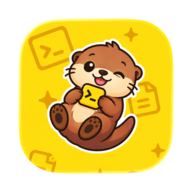
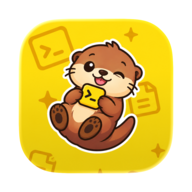
Apply the glass gradient multiply to the background group
Icon Composer ignores blend modes on layers, so the previous change
rendered image backgrounds exactly as flat as before. The multiply now
sits on the background group, where Icon Composer applies it: the tile
comes out about 10% darker at the bottom, like its gradient for a solid
color. The native rendering test now checks that the bottom of the tile
is darker than the top.

Changed region(s): [[0.1562, 0.7812, 0.8438, 0.9062]]

diff --git a/background_test.go b/background_test.go
@@ -179,9 +179,9 @@ func TestGlassDocumentPutsImageBackgroundUnderArtwork(t *testing.T) {
 	var document struct {
 		Fill   any `json:"fill"`
 		Groups []struct {
+			Blend  string `json:"blend-mode"`
 			Layers []struct {
 				Image string `json:"image-name"`
-				Blend string `json:"blend-mode"`
 				Glass bool   `json:"glass"`
 			} `json:"layers"`
 		} `json:"groups"`
@@ -193,7 +193,7 @@ func TestGlassDocumentPutsImageBackgroundUnderArtwork(t *testing.T) {
 	// Composer renders the glass gradient itself.
 	fill, _ := document.Fill.(map[string]any)
 	if fill["automatic-gradient"] != "srgb:1.00000,1.00000,1.00000,1.00000" || len(document.Groups) != 2 || document.Groups[0].Layers[0].Image != "foreground.png" ||
-		len(document.Groups[1].Layers) != 1 || document.Groups[1].Layers[0].Image != "background.png" || document.Groups[1].Layers[0].Blend != "multiply" || document.Groups[1].Layers[0].Glass {
+		len(document.Groups[1].Layers) != 1 || document.Groups[1].Layers[0].Image != "background.png" || document.Groups[1].Blend != "multiply" || document.Groups[1].Layers[0].Glass {
 		t.Fatalf("wrong glass document: %s", data)
 	}
 	if _, err := os.Stat(filepath.Join(doc, "Assets", "shading.png")); !os.IsNotExist(err) {
@@ -216,11 +216,16 @@ func TestAppleGlassRendersImageBackground(t *testing.T) {
 	if err := writeMacOS(context.Background(), opts); err != nil {
 		t.Fatal(err)
 	}
-	// Apple's renderer adds light glass edges; the middle of the tile beside the
-	// artwork shows the background image.
-	got := color.NRGBAModel.Convert(readPNG(t, filepath.Join(opts.Output, "preview.png")).At(512, 160)).(color.NRGBA)
-	if got.B < got.R+80 {
-		t.Fatalf("glass tile does not show the background image: %v", got)
+	// The tile above and below the artwork shows the uniform background image.
+	preview := readPNG(t, filepath.Join(opts.Output, "preview.png"))
+	top := color.NRGBAModel.Convert(preview.At(512, 160)).(color.NRGBA)
+	bottom := color.NRGBAModel.Convert(preview.At(512, 860)).(color.NRGBA)
+	if top.B < top.R+80 {
+		t.Fatalf("glass tile does not show the background image: %v", top)
+	}
+	// Icon Composer's gradient leaves the bottom of the tile darker than the top.
+	if int(bottom.R)+int(bottom.G)+int(bottom.B)+15 > int(top.R)+int(top.G)+int(top.B) {
+		t.Fatalf("glass tile has no gradient: top %v, bottom %v", top, bottom)
 	}
 }
 

diff --git a/macos_glass.go b/macos_glass.go
@@ -39,9 +39,10 @@ func findIconComposerTool() (string, error) {
 // Apple renders the background. The artwork layer is deliberately opaque/flat
 // in material terms, while preserving the artwork's own alpha channel. A color
 // becomes the document's automatic-gradient fill. An image becomes a full-bleed
-// layer in the bottom group, because the first group is drawn on top. It
-// multiplies over Apple's automatic gradient of white, so Icon Composer still
-// renders the lighter top and darker bottom.
+// layer in the bottom group, because the first group is drawn on top. That
+// group multiplies over Apple's automatic gradient of white, so Icon Composer
+// still renders the lighter top and darker bottom. Icon Composer ignores
+// blend modes on layers; it applies them to groups.
 func macGlassDocument(name string, background iconBackground) map[string]any {
 	layer := func(layerName, imageName string) map[string]any {
 		return map[string]any{"name": layerName, "image-name": imageName, "glass": false, "position": map[string]any{"scale": 1, "translation-in-points": []int{0, 0}}}
@@ -57,9 +58,9 @@ func macGlassDocument(name string, background iconBackground) map[string]any {
 	base := background.color
 	if background.image != nil {
 		base = color.NRGBA{R: 255, G: 255, B: 255, A: 255}
-		backgroundLayer := layer("Background", "background.png")
-		backgroundLayer["blend-mode"] = "multiply"
-		groups = append(groups, group("none", backgroundLayer))
+		backgroundGroup := group("none", layer("Background", "background.png"))
+		backgroundGroup["blend-mode"] = "multiply"
+		groups = append(groups, backgroundGroup)
 	}
 	fill := map[string]any{"automatic-gradient": fmt.Sprintf("srgb:%.5f,%.5f,%.5f,1.00000", float64(base.R)/255, float64(base.G)/255, float64(base.B)/255)}
 	return map[string]any{"fill": fill, "groups": groups, "supported-platforms": map[string]any{"squares": "shared"}}
